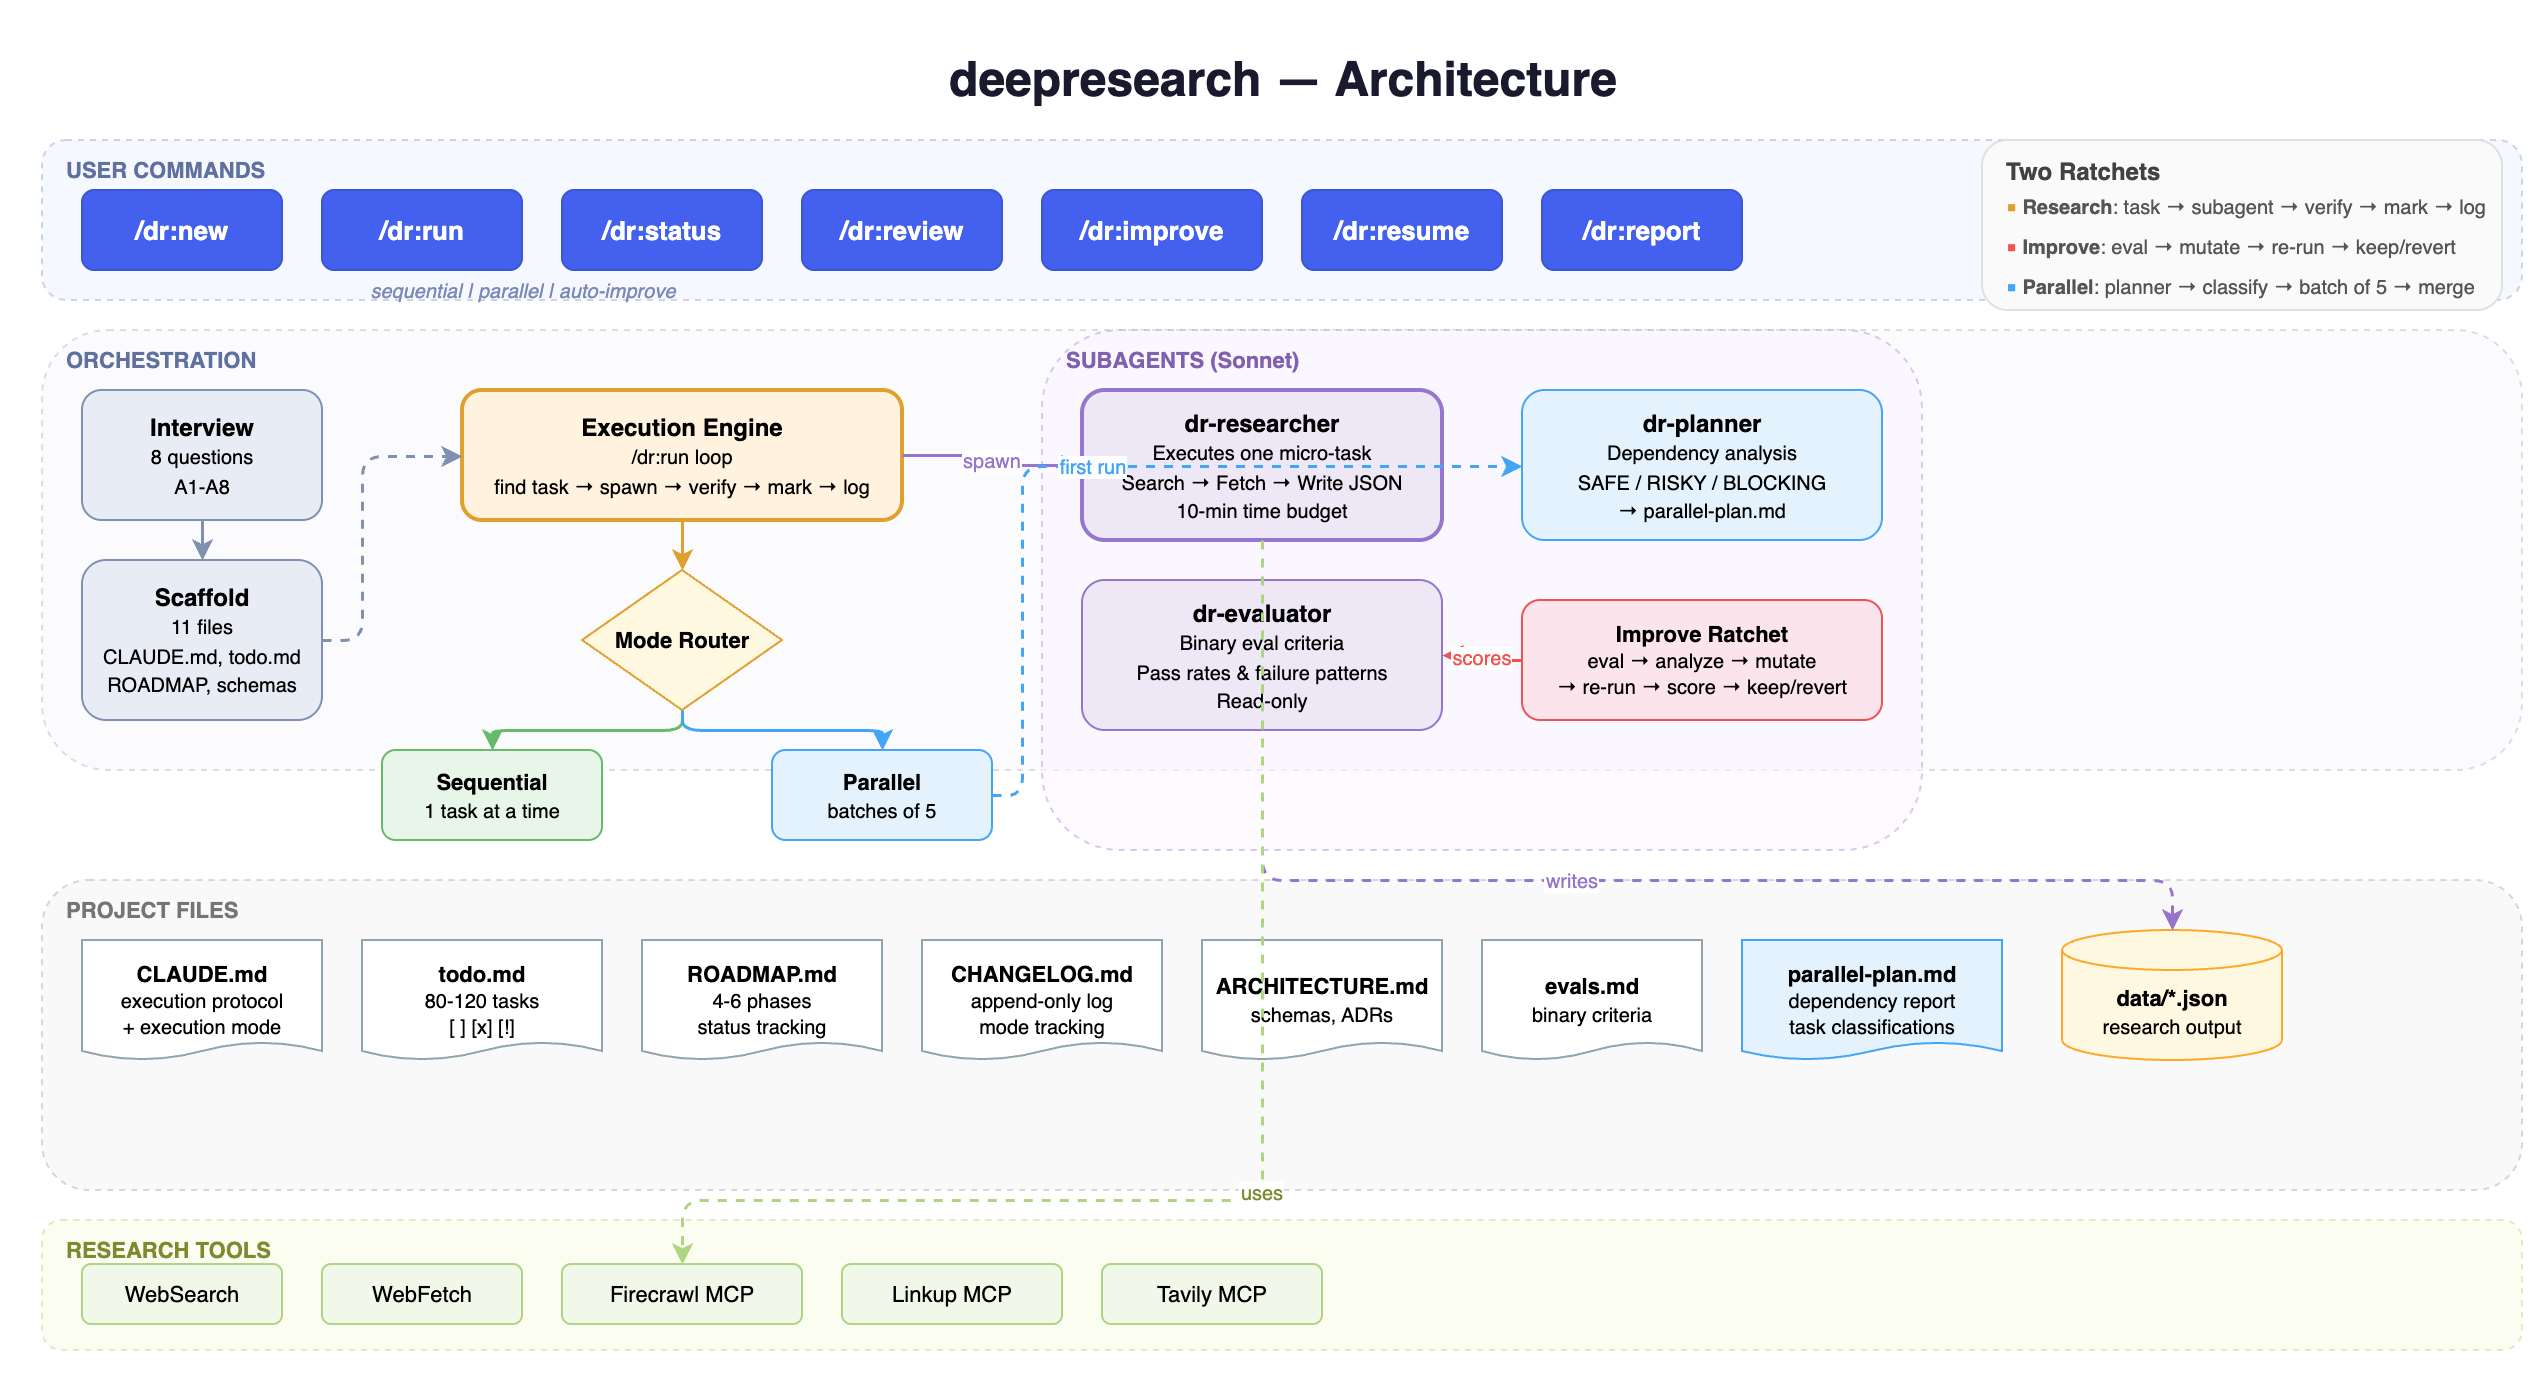
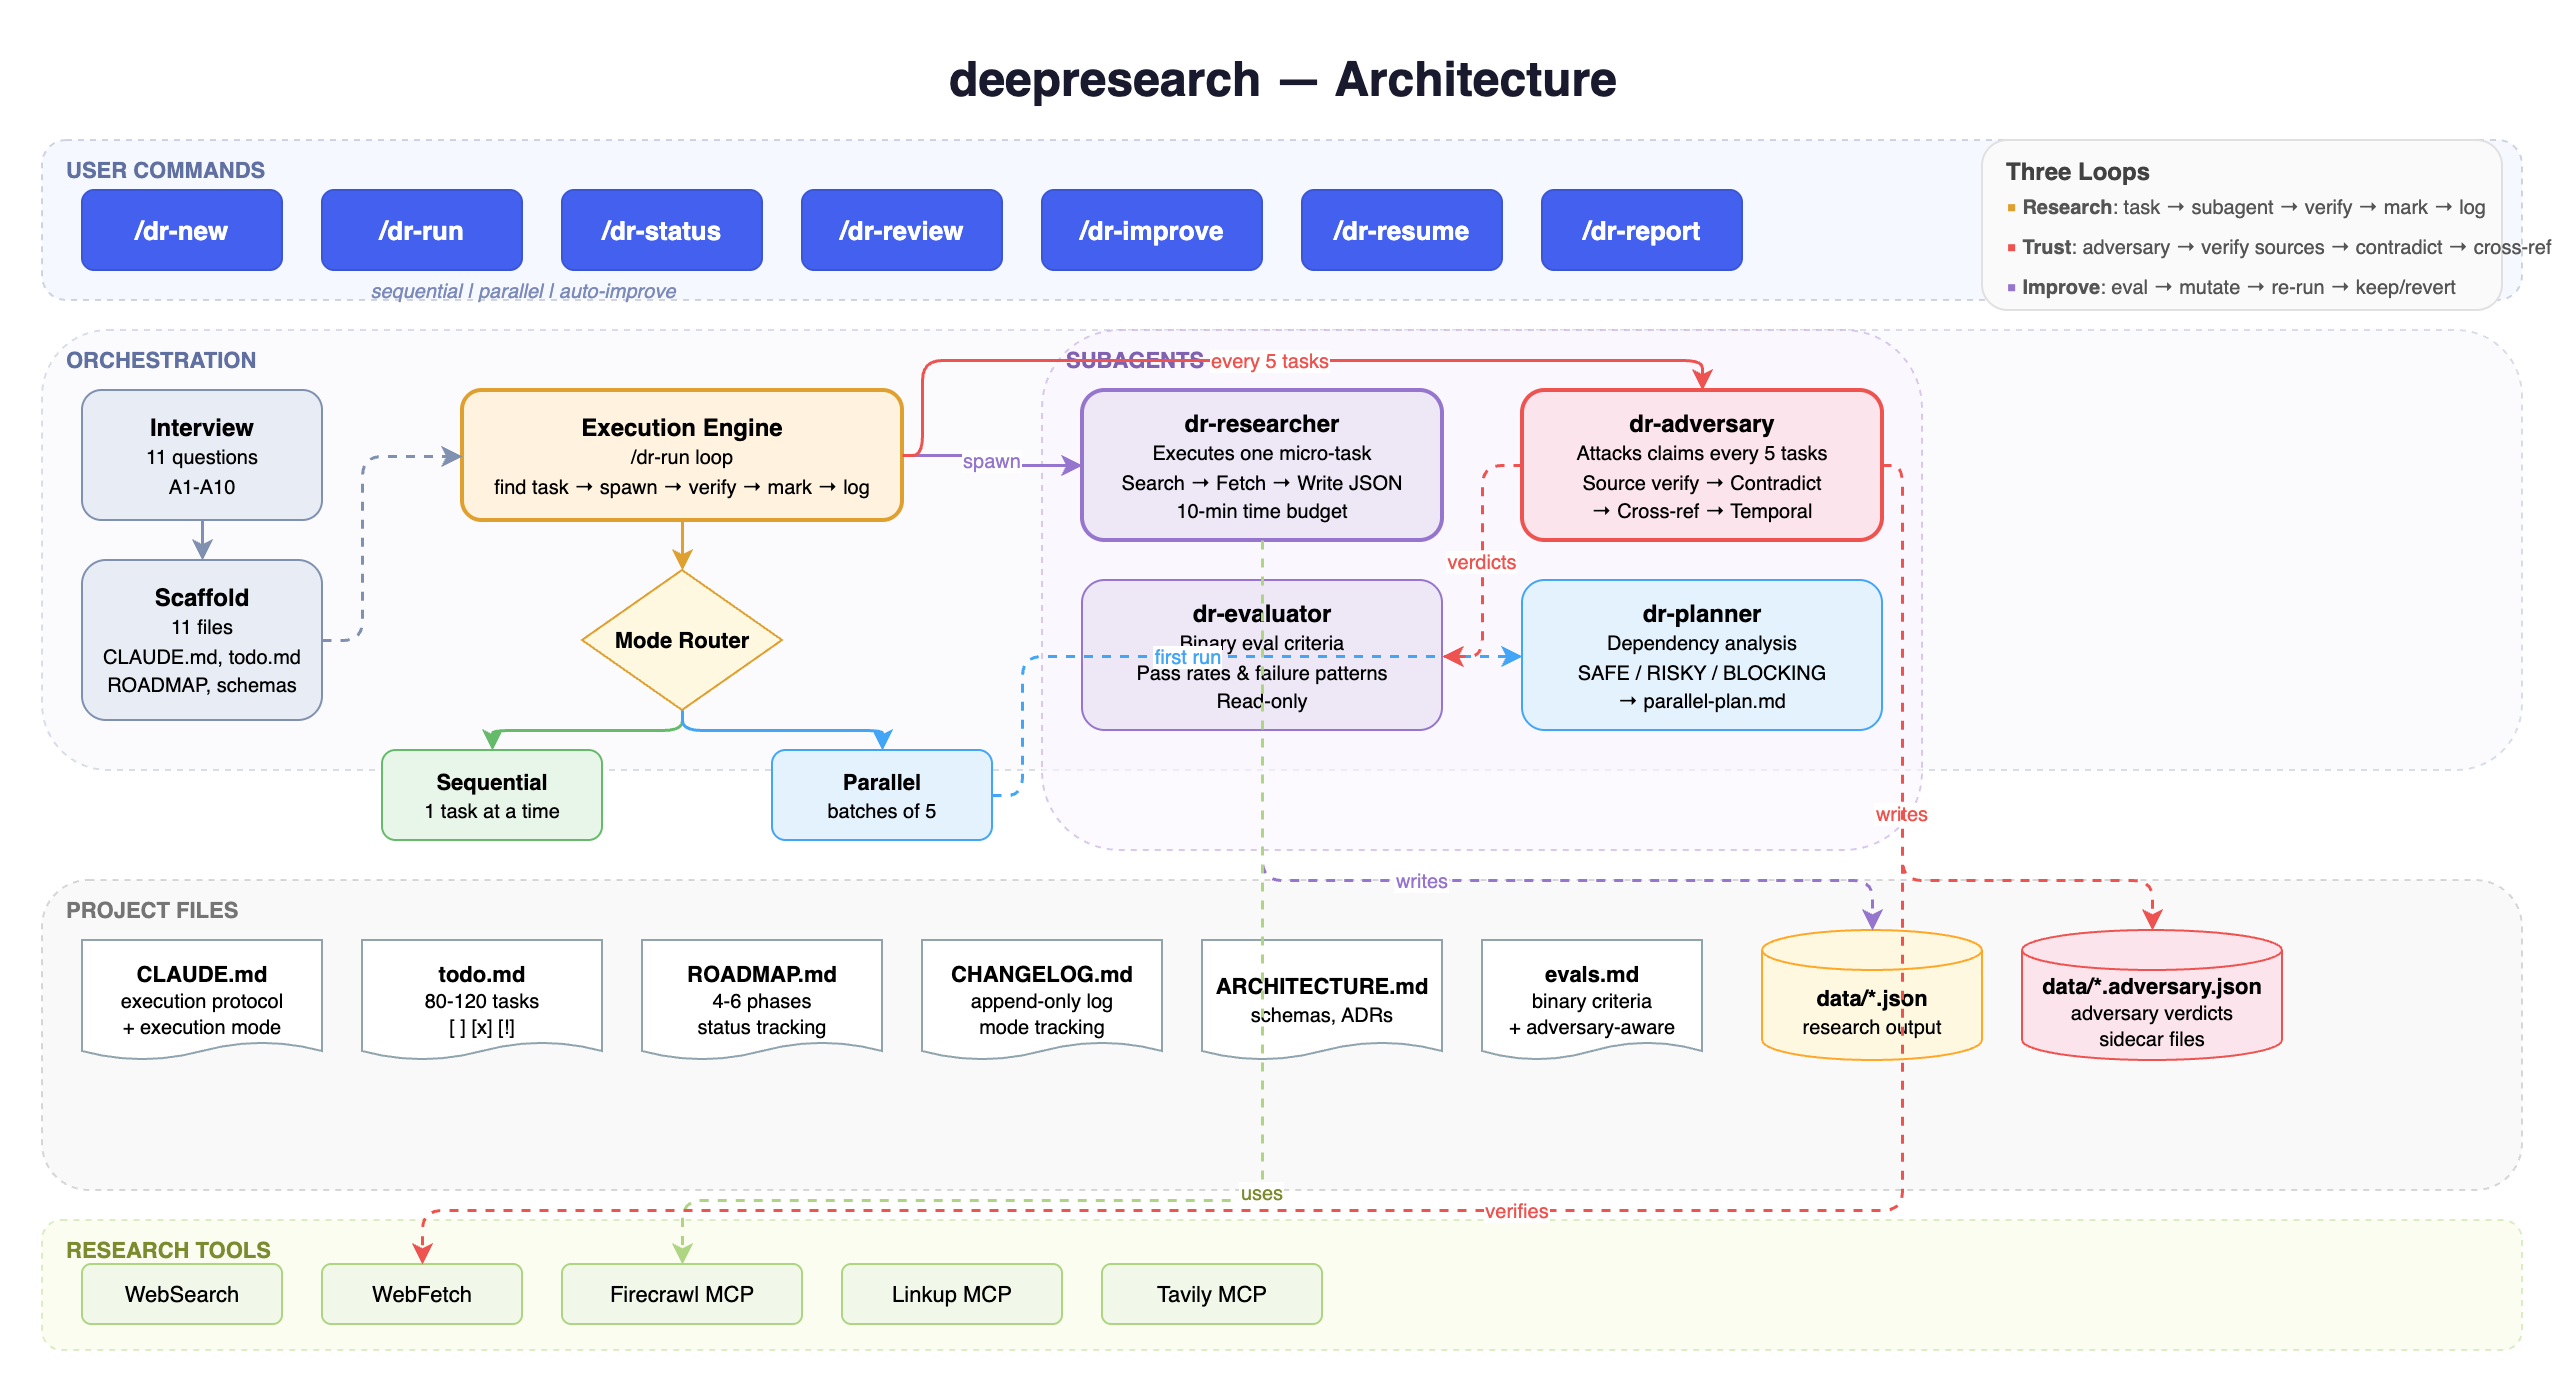
fix: correct architecture diagram — 6 issues and reposition in README
Fix command names (colons→hyphens), interview count (8→11),
add missing dr-adversary subagent, update legend to "Three Loops",
add adversary.json sidecar files, and move diagram to Architecture section.

diff --git a/README.md b/README.md
@@ -1,7 +1,3 @@
-<p align="center">
-  <img src="docs/architecture.png" alt="deepresearch architecture" width="800">
-</p>
-
 <h1 align="center">deepresearch</h1>
 
 <p align="center">
@@ -69,6 +65,10 @@ That's it. No dependencies. No build step. Open a new Claude Code session and th
 ## How it works
 
 ### Architecture
+
+<p align="center">
+  <img src="docs/architecture.png" alt="deepresearch architecture" width="800">
+</p>
 
 deepresearch has four layers that work together:
 